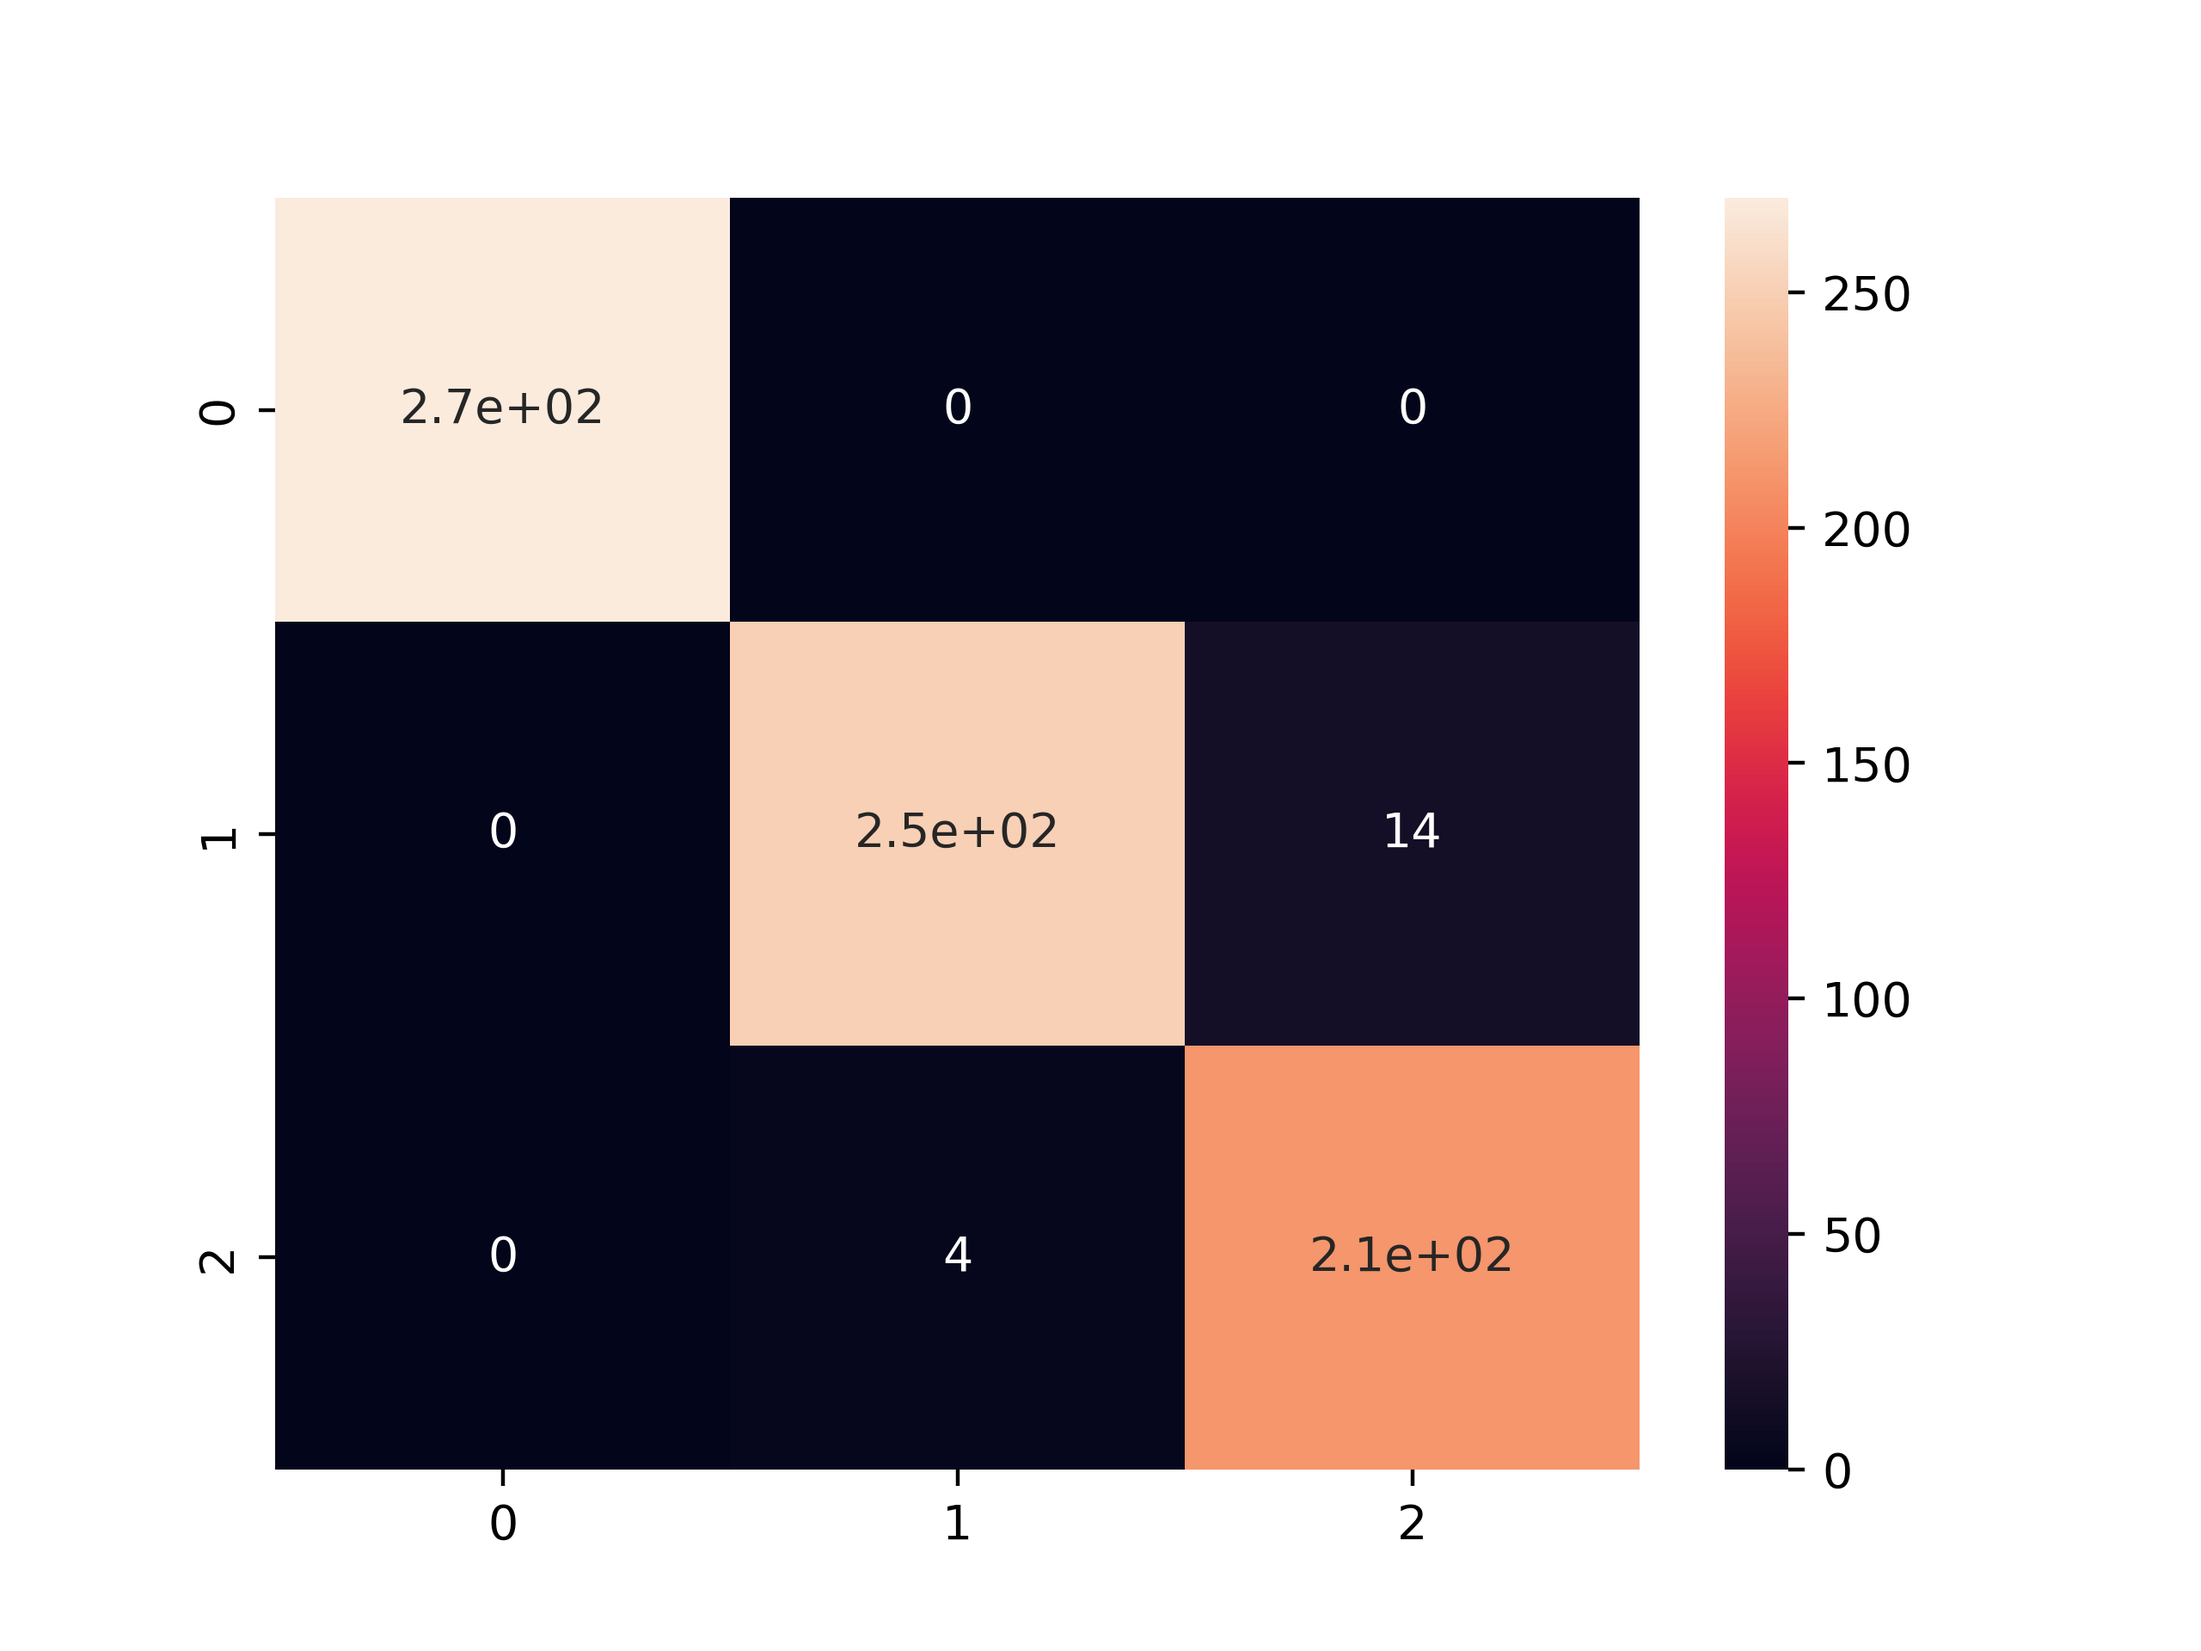
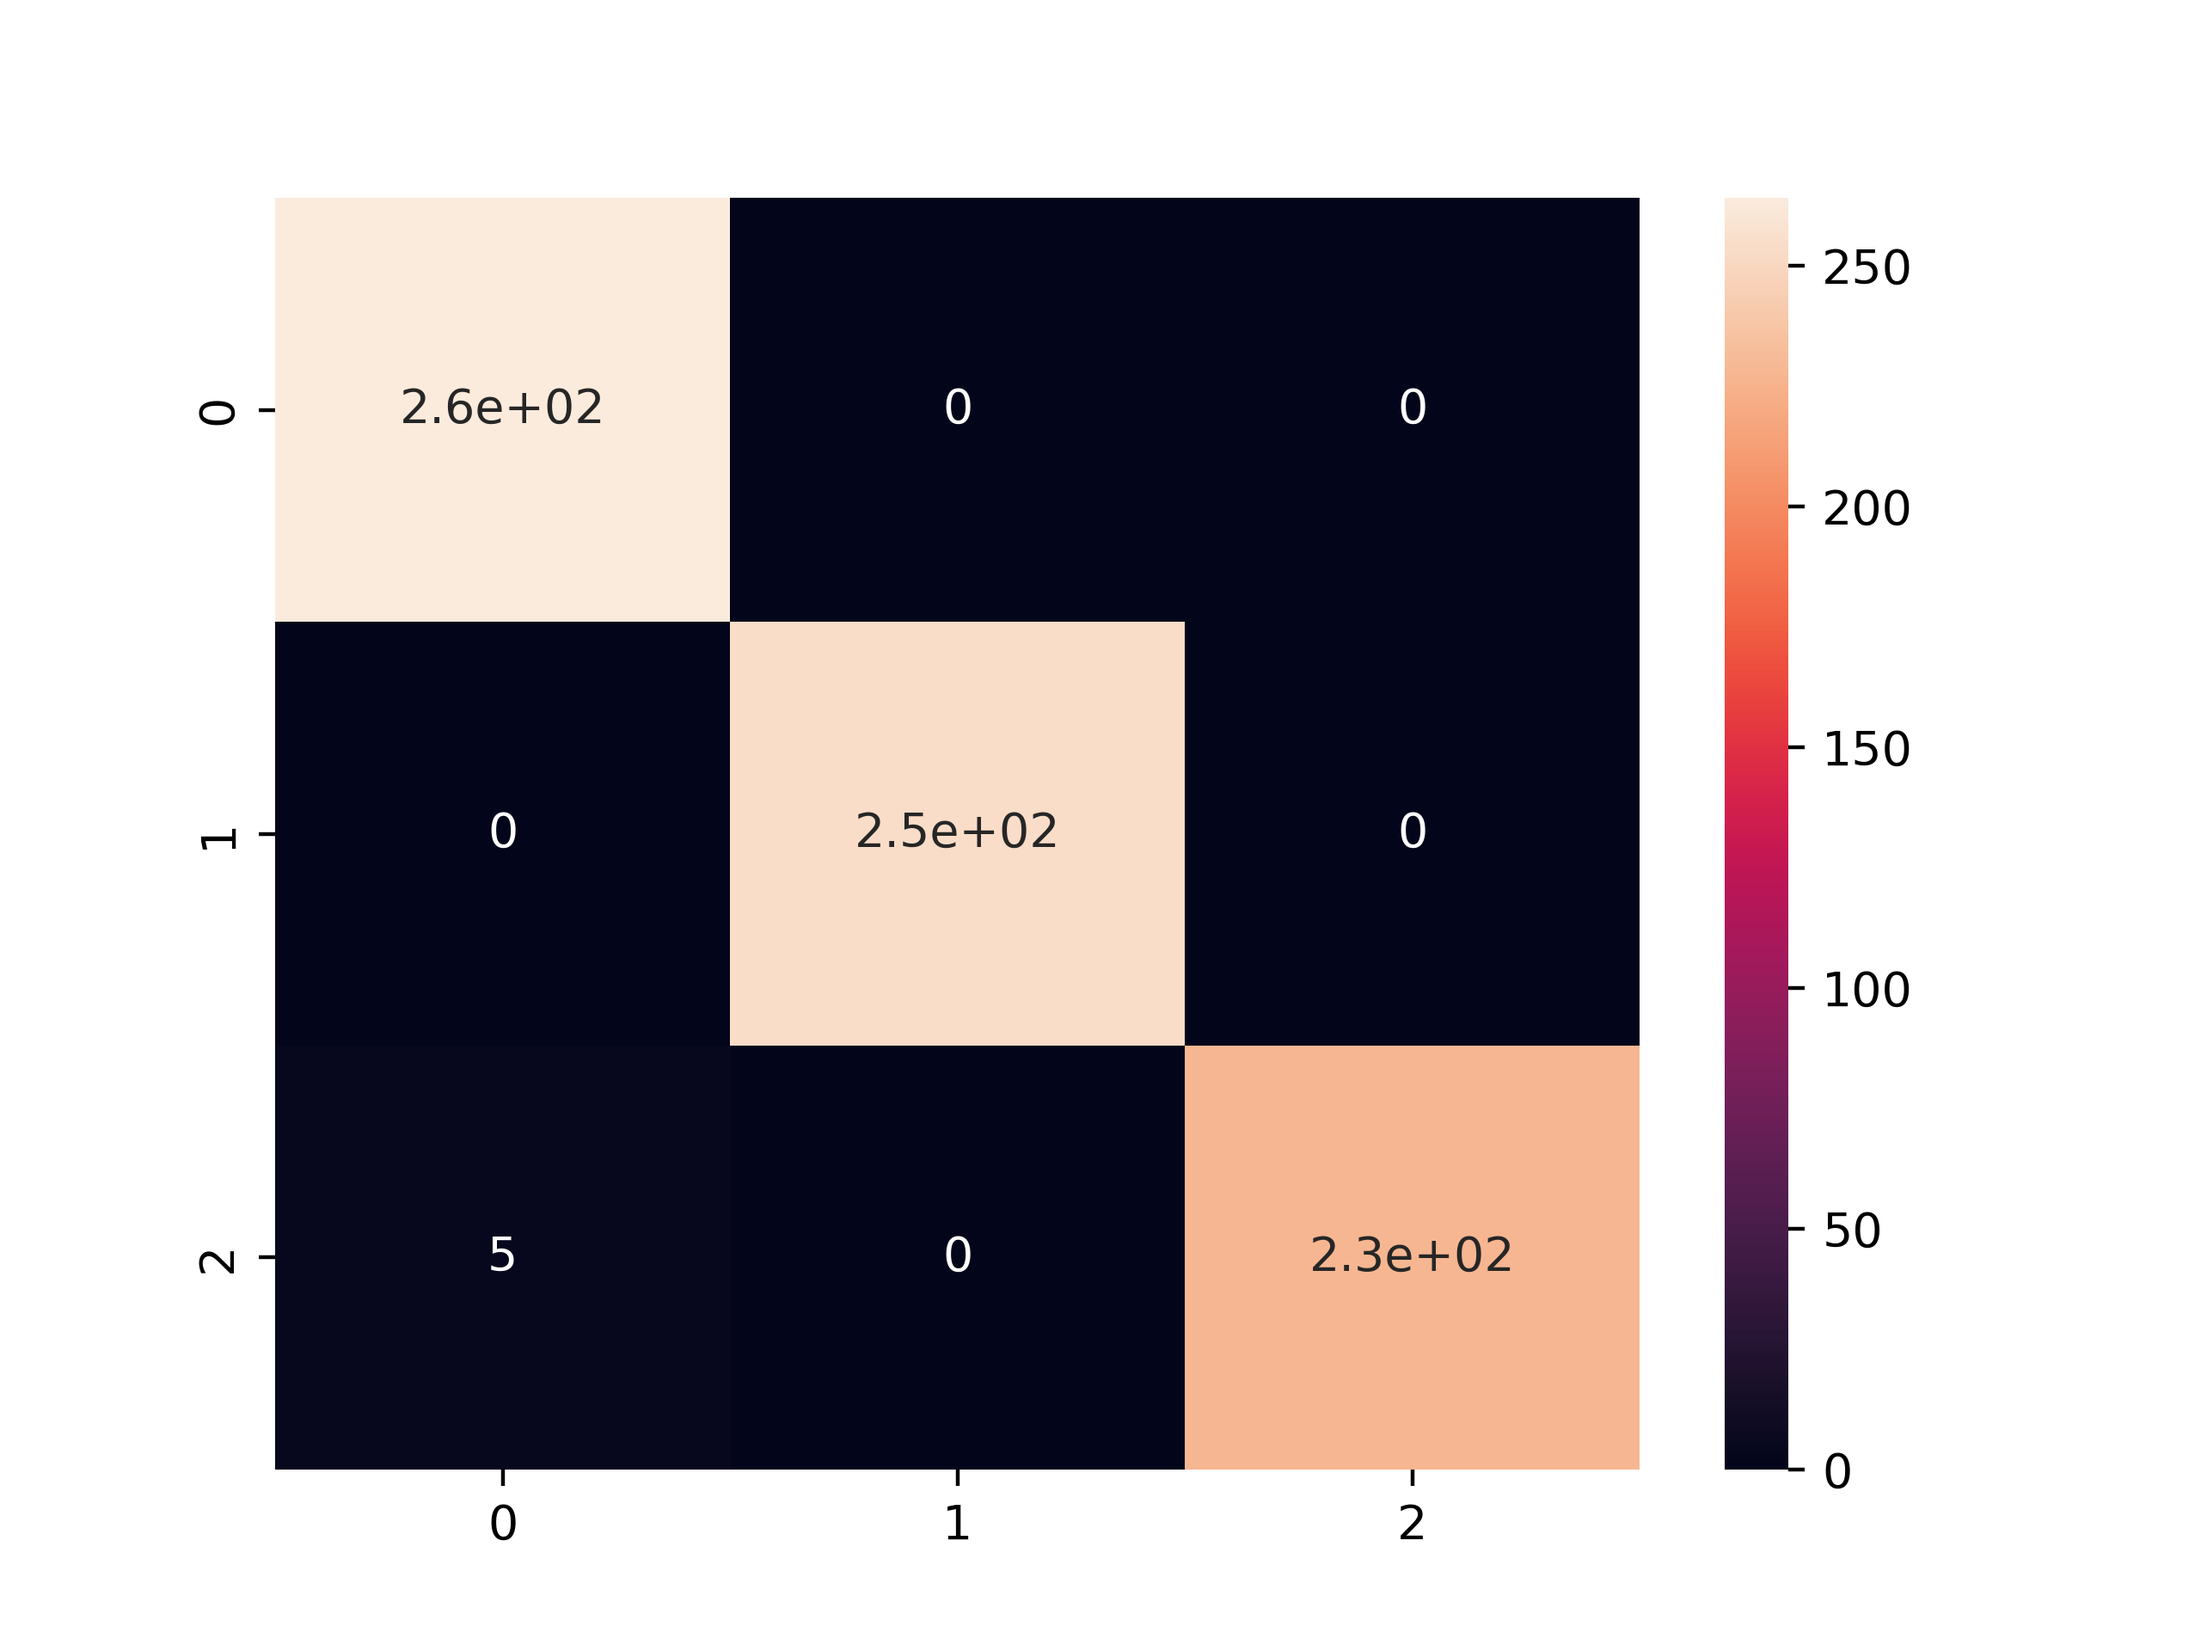
increased training epochs for snow to 8

diff --git a/main_tf.py b/main_tf.py
@@ -29,9 +29,9 @@ def getTrainTestValData(fileLoc, test_size = 0.15, val_size = 0.15):
 
     return trainX, trainY, valX, valY, testX, testY
     
-def testNN_tf():
+def testNN_tf(snow=True):
     # test_size = 0.2
-    num_epoch = 6
+    num_epoch = 8
     BATCH_SIZE = 32
 
     primitiveFile = 'data/sphereConeCubeData.csv'
@@ -61,8 +61,9 @@ def testNN_tf():
 
     snowModel = 'snowModel/snowModel'
     shapeModel = 'shapeModel/shapeModel'
+    modelName = snowModel if snow else shapeModel
 
-    model.save_weights(snowModel)
+    model.save_weights(modelName)
 
     preds = model.predict(test_dataset.batch(2))
 
@@ -75,7 +76,7 @@ def visualizeMistakes(pred, real, data):
         predClass = str(tf.keras.backend.get_value(pred[i]))
         realClass = str(real[i])
         if predClass != realClass:
-            printShape(data[i], "images/pred_" + predClass + "_real_" + realClass + "_" + str(i) + ".png", realClass + " predicted as " + predClass)
+            printShape(data[i], "images/confusion/pred_" + predClass + "_real_" + realClass + "_" + str(i) + ".png", realClass + " predicted as " + predClass)
     return
 
 def visualizeModel(snow=True):
@@ -101,7 +102,7 @@ def visualizeModel(snow=True):
     figure.savefig('images/conf_mat_' + modelName.split('/')[-1] +'.png', dpi=400)
 
 def main():
-    # testNN_tf()
+    testNN_tf()
     visualizeModel()
 
 if __name__ == "__main__":

diff --git a/README.md b/README.md
@@ -23,3 +23,7 @@ For the full writeup, visit this link:
 
 6 epochs: 99% training accuracy, 99% testing accuracy
 
+
+6 epochs is not always consistent,
+with 8 epochs, was able to achieve 99% accuracy --> with these only the sideways snowmen
+were predicted as clouds. No other confusion happened.
